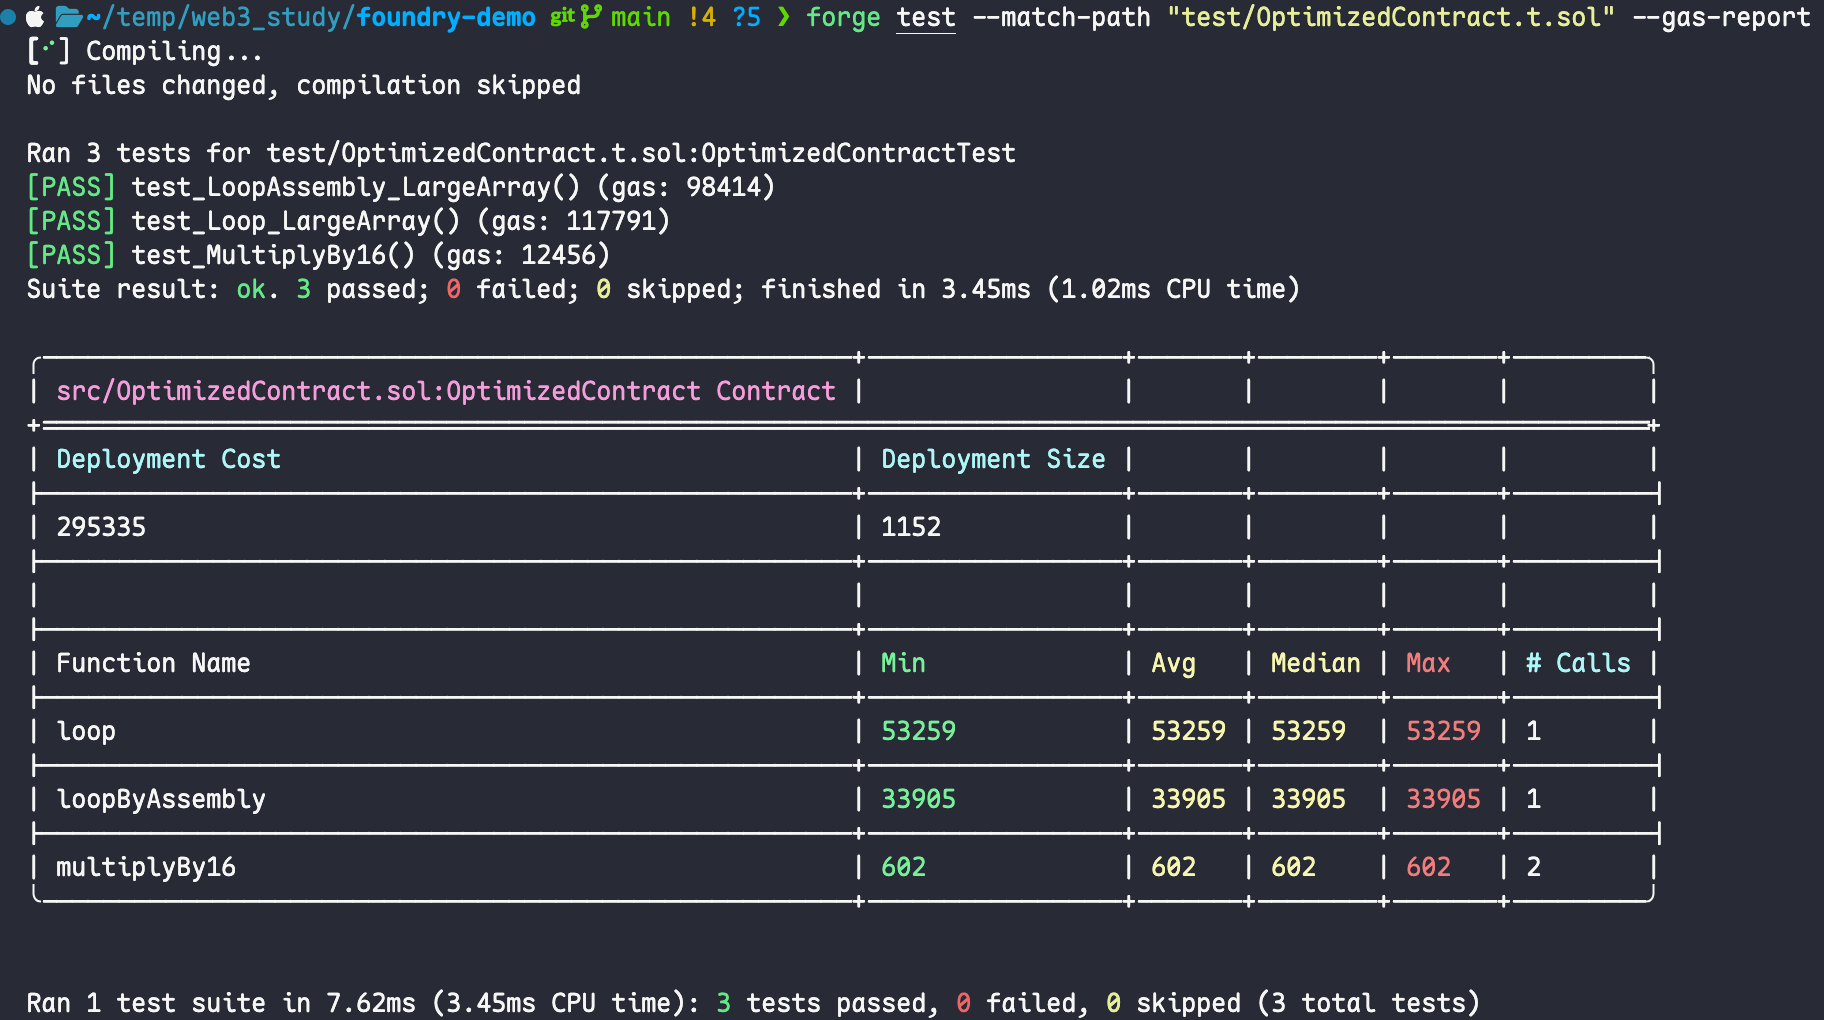
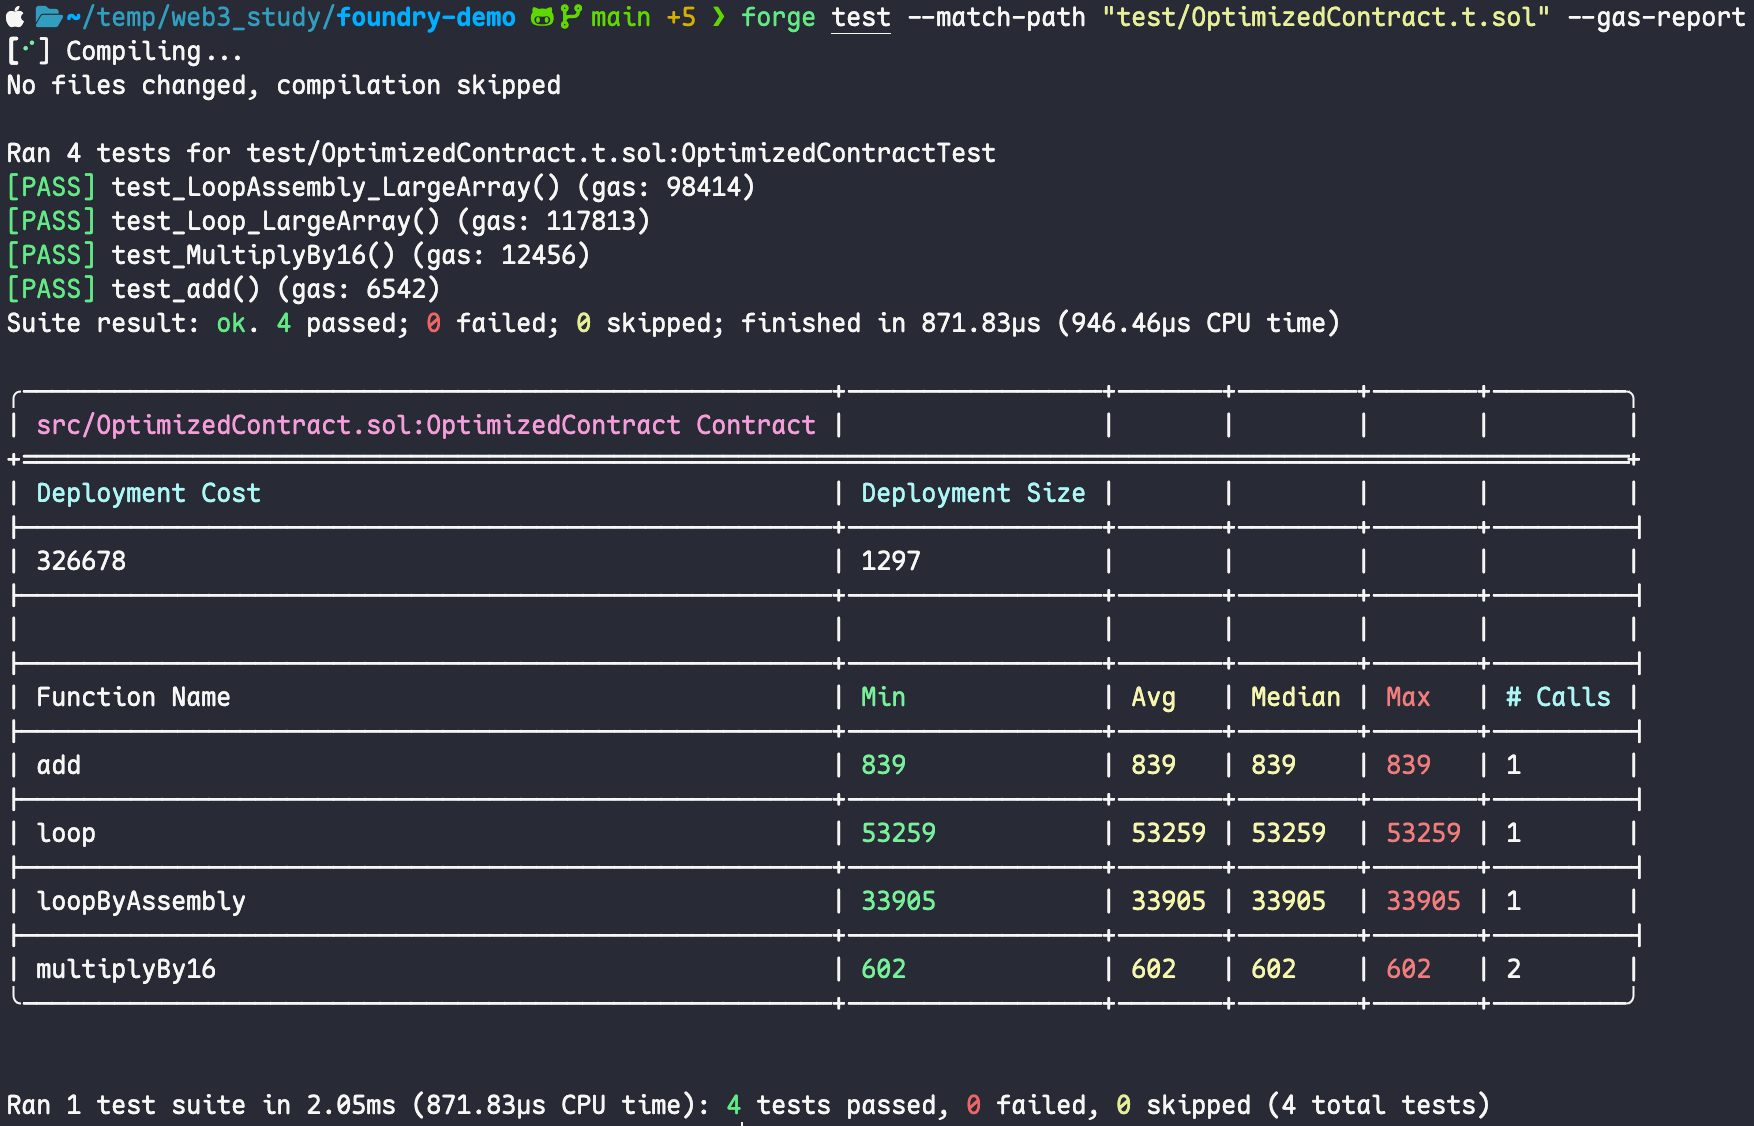
feat: 添加用例

diff --git a/README.md b/README.md
@@ -55,5 +55,5 @@ https://book.getfoundry.sh/
 附带 Gas 消耗分析。
 
 ```shell
-$ forge test --math-path "test/OptimizedContract.t.sol" --gas-report
+$ forge test --match-path "test/OptimizedContract.t.sol" --gas-report
 ```
